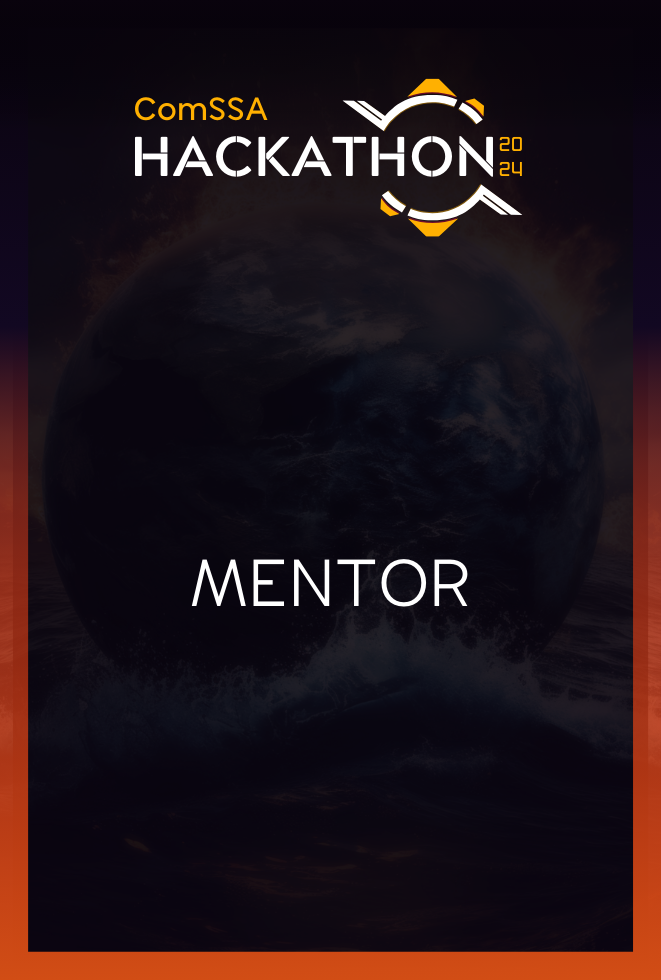
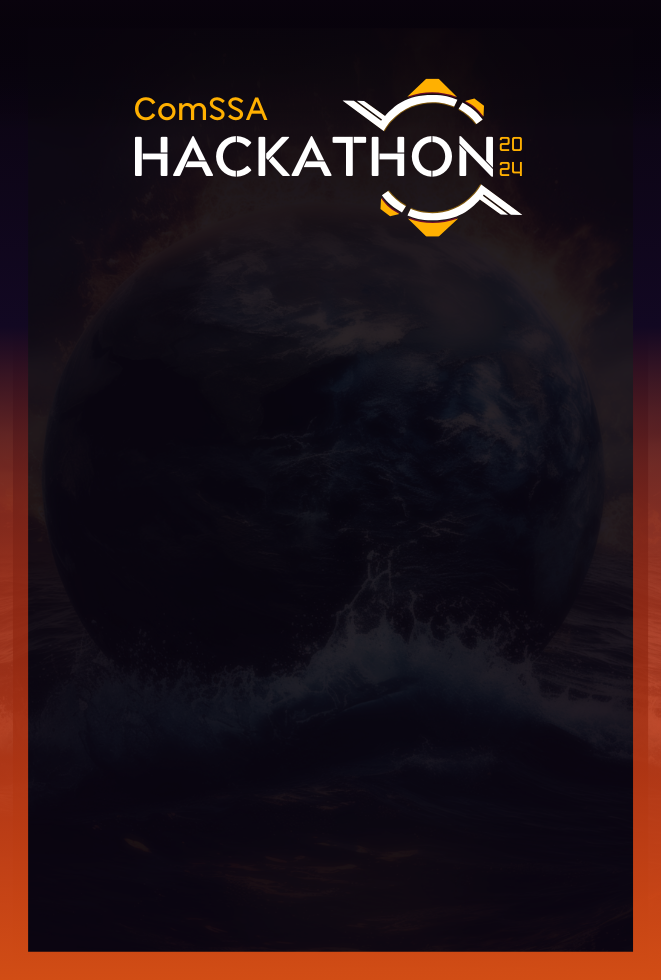
Mentors

Changed region(s): [[0.2723, 0.551, 0.7262, 0.6429], [0.6051, 0.6122, 0.6354, 0.6429]]

diff --git a/index.js b/index.js
@@ -6,7 +6,7 @@ require('./assets/Wavehaus-66Book.js');
 require('./assets/Wavehaus-128Bold.js');
 
 const TWO_SIDED = true;
-const CUR_DESIGN = 'committee';
+const CUR_DESIGN = 'mentors';
 
 const colors = {
     white: '#FFFFFF',
@@ -85,7 +85,7 @@ const DESIGNS = {
                     y: 52
                 },
                 {
-                    key: 'coordinator',
+                    key: 'role2',
                     font: 'Wavehaus-66Book',
                     color: colors.white,
                     size: 16,
@@ -96,7 +96,7 @@ const DESIGNS = {
     },
     mentors: {
         background: '56x83BG-M.png',
-        data: 'sample_committee.json',
+        data: 'mentors.json',
         output: 'mentors.pdf',
         layout:  {
             width: 56,
@@ -116,8 +116,19 @@ const DESIGNS = {
                     size: 20,
                     y: 43
                 },
+                {
+                    key: '!Mentor',
+                    font: 'Wavehaus-66Book',
+                    color: colors.white,
+                    size: 16,
+                    y: 52
+                },
             ],
-            // will have company logo on each
+            image: {
+                y: 62,
+                width: 30,
+                height: 286/742 * 30 // aspect ratio of image
+            }
         }
     }
 }
@@ -222,8 +233,12 @@ function main(numProcessed) {
             doc.setTextColor(text.color);
             const textX = text.x || id.width / 2;
             const textY = text.y || id.height / 2;
-            let textToAdd = data[text.key];
-
+            let textToAdd;
+            if (text.key.startsWith('!')) {
+                textToAdd = text.key.substring(1);
+            } else {
+                textToAdd = data[text.key];
+            }
             // check if it will overflow, as if so, we'll reduce the font size so it fits
             const textWidth = doc.getStringUnitWidth(textToAdd) * text.size / doc.internal.scaleFactor;
             // we don't want the text to right up against the edge so we add a margin
@@ -242,6 +257,13 @@ function main(numProcessed) {
             const qrX = id.qr.x || (id.width - id.qr.size) / 2;
             const qrY = id.qr.y || id.size / 2;
             doc.addImage(data.image, 'JPEG', x + qrX, y + qrY, id.qr.size, id.qr.size);
+        }
+
+        if (id.image && data.image) {
+            const imgX = id.image.x || (id.width - id.image.width) / 2;
+            const imgY = id.image.y || id.size / 2;
+            const imgData = fs.readFileSync(path.join(__dirname, 'assets', data.image));
+            doc.addImage(imgData, 'PNG', x + imgX, y + imgY, id.image.width, id.image.height);
         }
         
     }

diff --git a/data.js b/data.js
@@ -71,7 +71,7 @@ async function getCommitteeData() {
         first_name: contact.first_name,
         last_name: contact.last_name,
         role: "", // DEFAULT, for now editing resulting file
-        coordinator: "" // OVERFLOW LINE
+        role2: "" // OVERFLOW LINE
     }));
 
     fs.writeFileSync('data/committee.json', JSON.stringify({members: data}));
